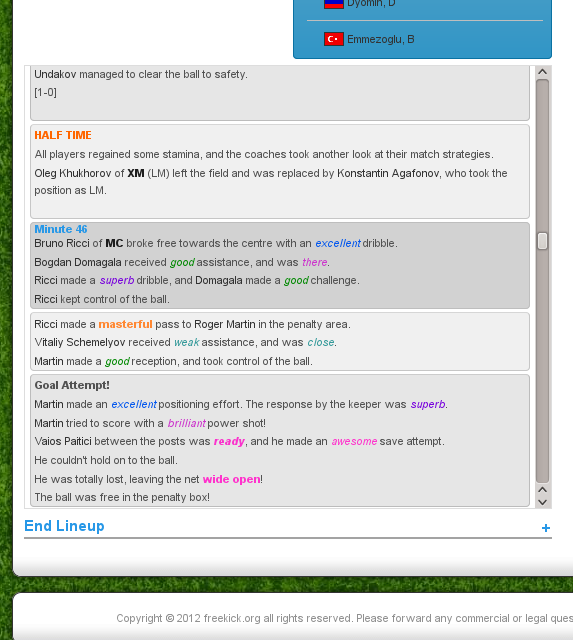
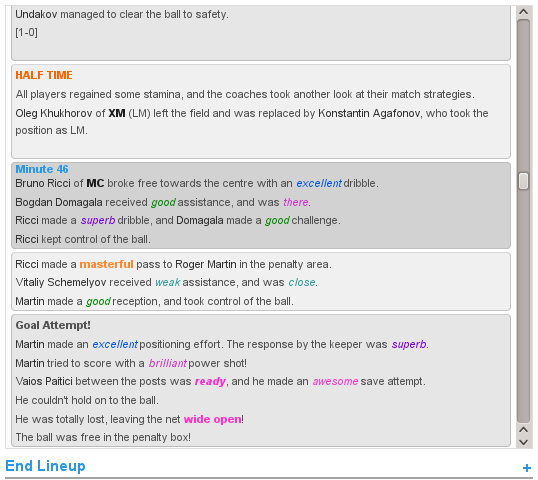
crop image, fix image caption

diff --git a/README.md b/README.md
@@ -19,7 +19,7 @@ One player
 Youth team  
 <img src="https://github.com/alexbel/freekick-plus/raw/master/screenshots/youth_team.png" alt="youth team">
 
-Match report color legend team  
+Match report color legend  
 <img src="https://github.com/alexbel/freekick-plus/raw/master/screenshots/match_report_color_legend.png" alt="youth team">
 
 Match report  
